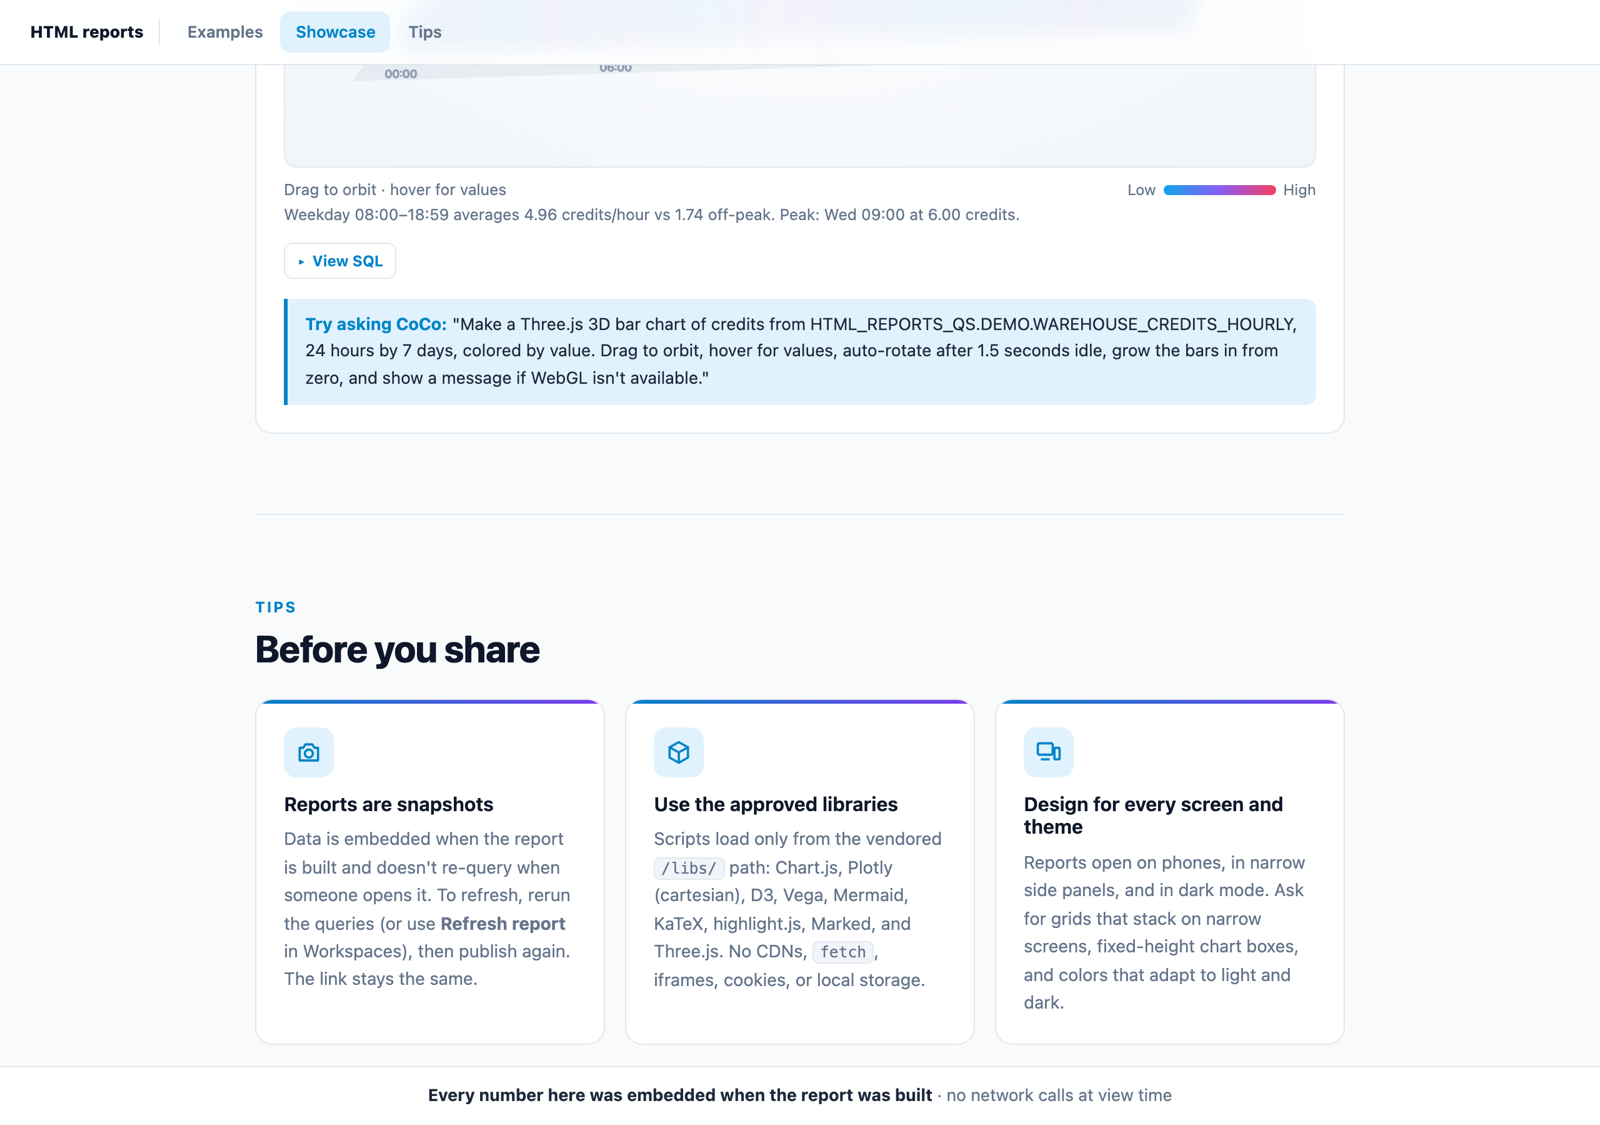
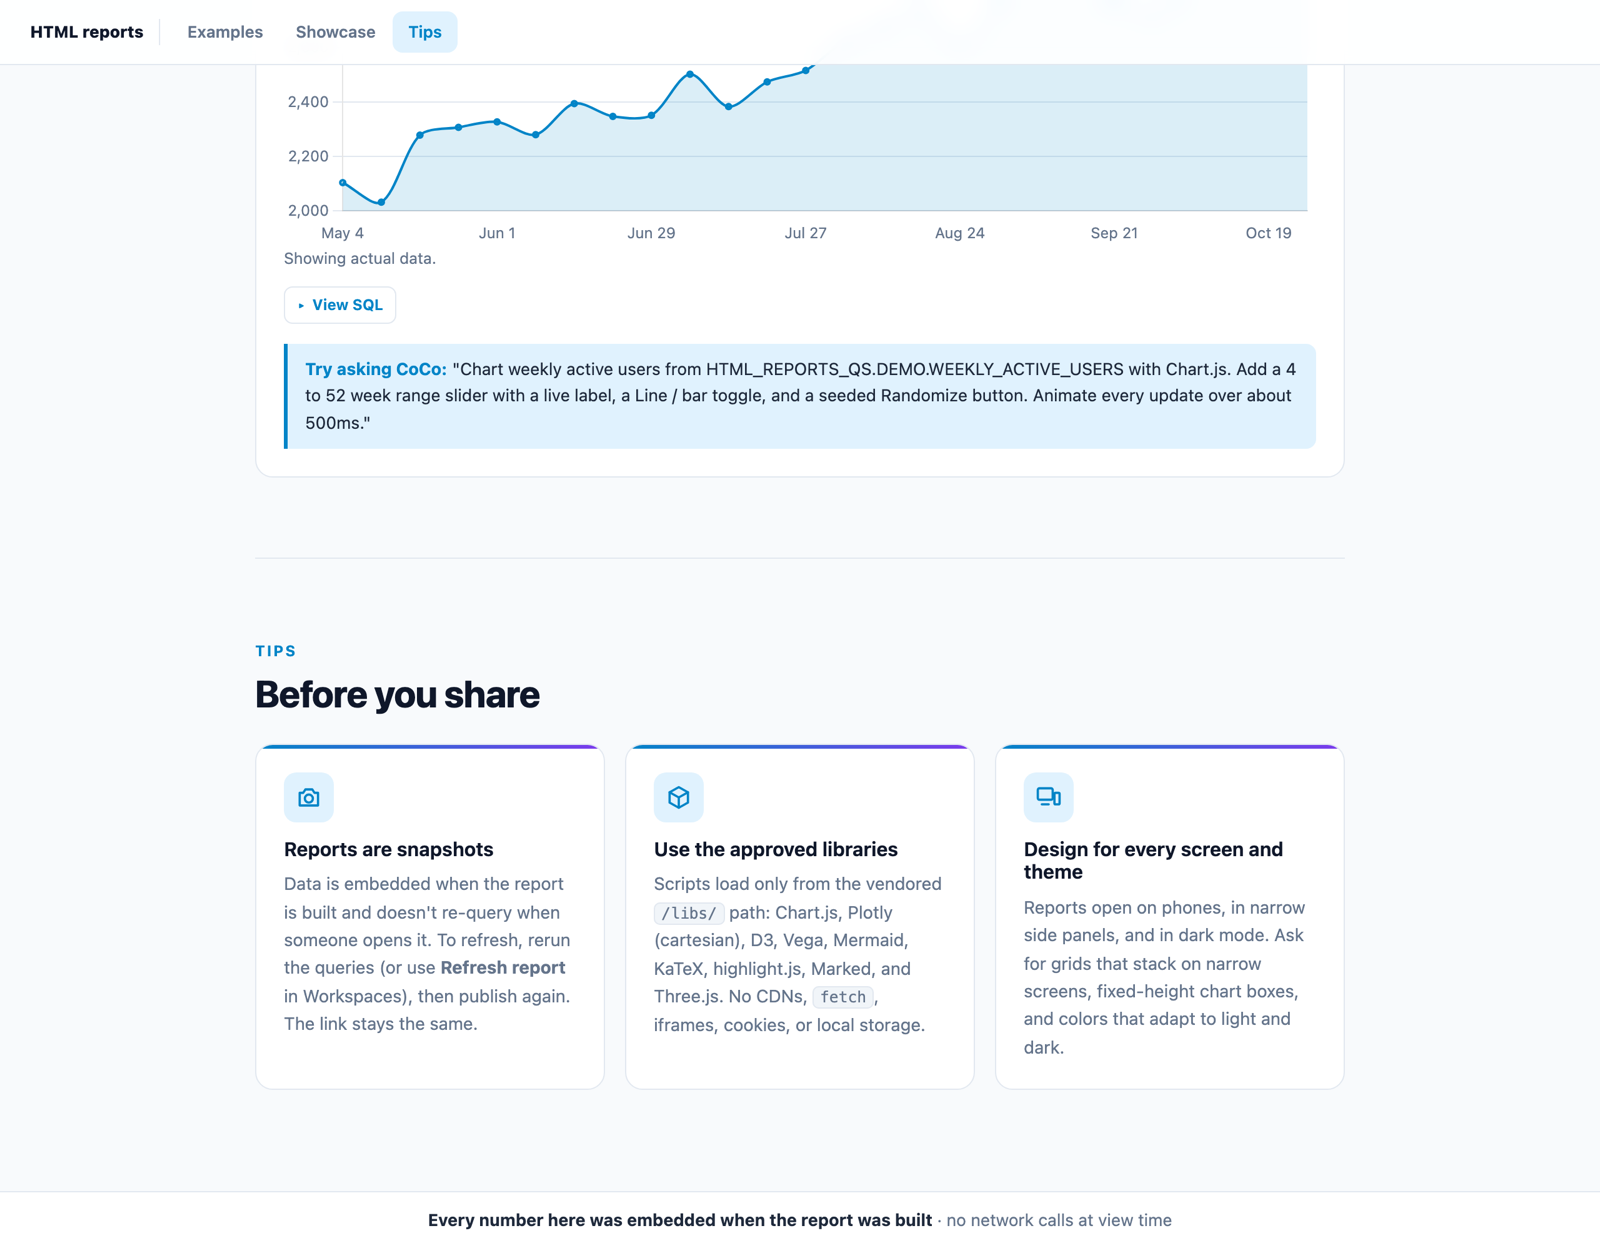
Fix screenshot captions and placement from review
Correct the sorted-table and capstone-hero captions, move the hero image under the Examples step it actually shows, retake the Tips shot with scroll tracking on Tips, and note that the example reports only render in Workspaces or Desktop.

Generated with [Snowflake CoCo](https://docs.snowflake.com/en/user-guide/cortex-code/cortex-code)

diff --git a/site/sfguides/src/build-interactive-html-dashboards-with-cortex-code/build-interactive-html-dashboards-with-cortex-code.md b/site/sfguides/src/build-interactive-html-dashboards-with-cortex-code/build-interactive-html-dashboards-with-cortex-code.md
@@ -86,7 +86,7 @@ Take the `SALES` table from this guide. The question you're answering decides th
 <!-- ------------------------ -->
 ## Set Up Sample Data
 
-Every prompt in this guide points at a small synthetic dataset in `HTML_REPORTS_QS.DEMO`. The [companion repo](https://github.com/sfc-gh-JCHAEARLEY/sfguide-build-interactive-html-dashboards-with-cortex-code) has this script as `setup.sql`, plus a finished example of every report in `reports/` that you can compare with your own.
+Every prompt in this guide points at a small synthetic dataset in `HTML_REPORTS_QS.DEMO`. The [companion repo](https://github.com/sfc-gh-JCHAEARLEY/sfguide-build-interactive-html-dashboards-with-cortex-code) has this script as `setup.sql`, plus a finished example of every report in `reports/` that you can compare with your own. The example reports load their libraries from the sandbox's `/libs/` path, so open them in Workspaces or Cortex Code Desktop. Opened directly from disk in a browser, the charts stay blank.
 
 Open a SQL worksheet (or a `.sql` file in Workspaces) and run the script below. It uses random values, so your numbers will differ from the screenshots and examples in this guide, and so may which region or segment comes out on top.
 
@@ -287,7 +287,7 @@ Make the summary table sortable by clicking a column header, with an arrow showi
 the sort direction.
 ```
 
-![The region table sorted by revenue](assets/sorted-table.png)
+![The summary table sorted by the Enterprise column](assets/sorted-table.png)
 
 You can also edit directly: open the report, select **Edit**, and choose **Preview** (edit text in the rendered page), **No JavaScript** (edit content that scripts would otherwise replace), or **Code** (edit HTML/CSS/JS). Saving updates the workspace file only. Published viewers see changes after you publish again.
 
@@ -552,8 +552,6 @@ tables in HTML_REPORTS_QS.DEMO. Start with only the page shell:
 Make every grid collapse to one column below about 600px wide.
 ```
 
-![The capstone shell: hero, chips, and sticky nav](assets/capstone-hero.png)
-
 ### 2. Examples
 
 ```text
@@ -561,6 +559,8 @@ Fill the Examples section with a KPI row (total revenue, order count, average or
 value for Q3 2026 from SALES) that counts up on load, and a bar chart of revenue by
 region with a collapsed "View SQL" toggle.
 ```
+
+![The hero, sticky nav, and the Examples KPI row](assets/capstone-hero.png)
 
 ### 3. Showcase
 
